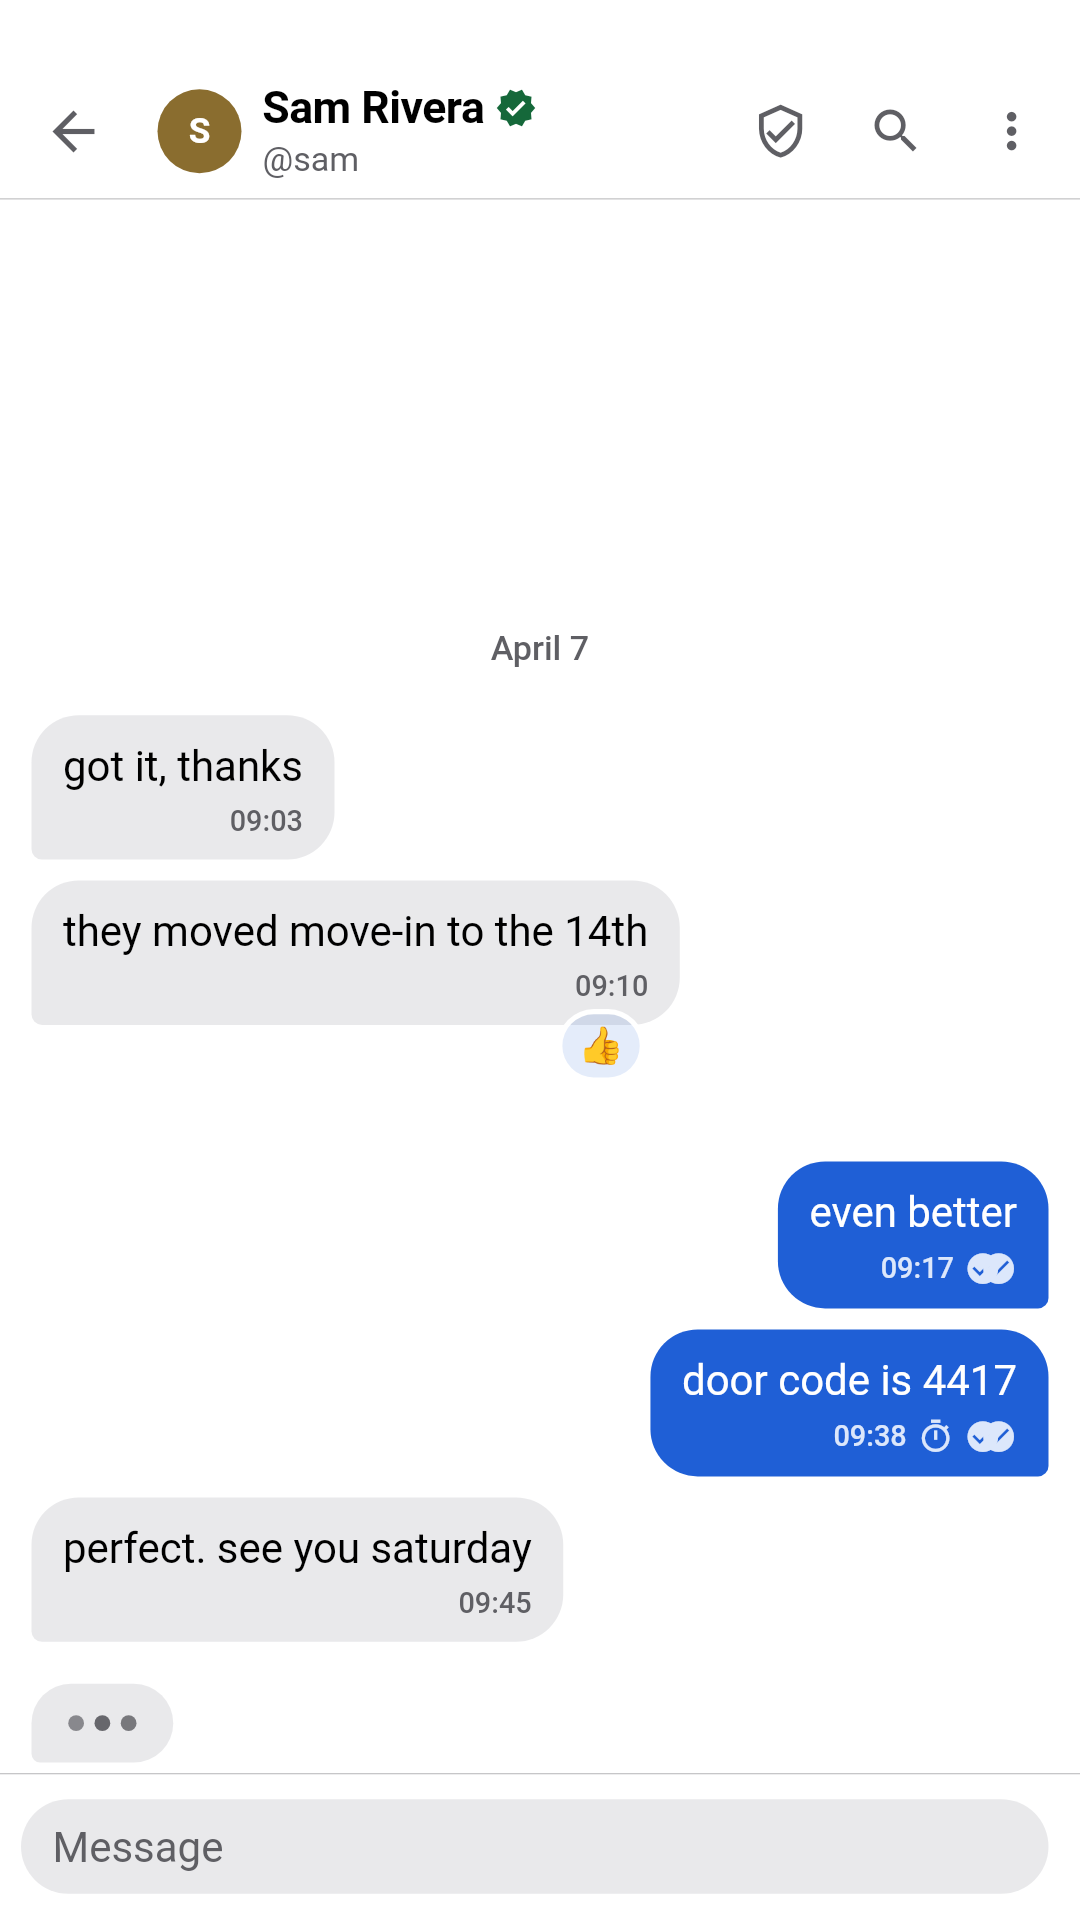
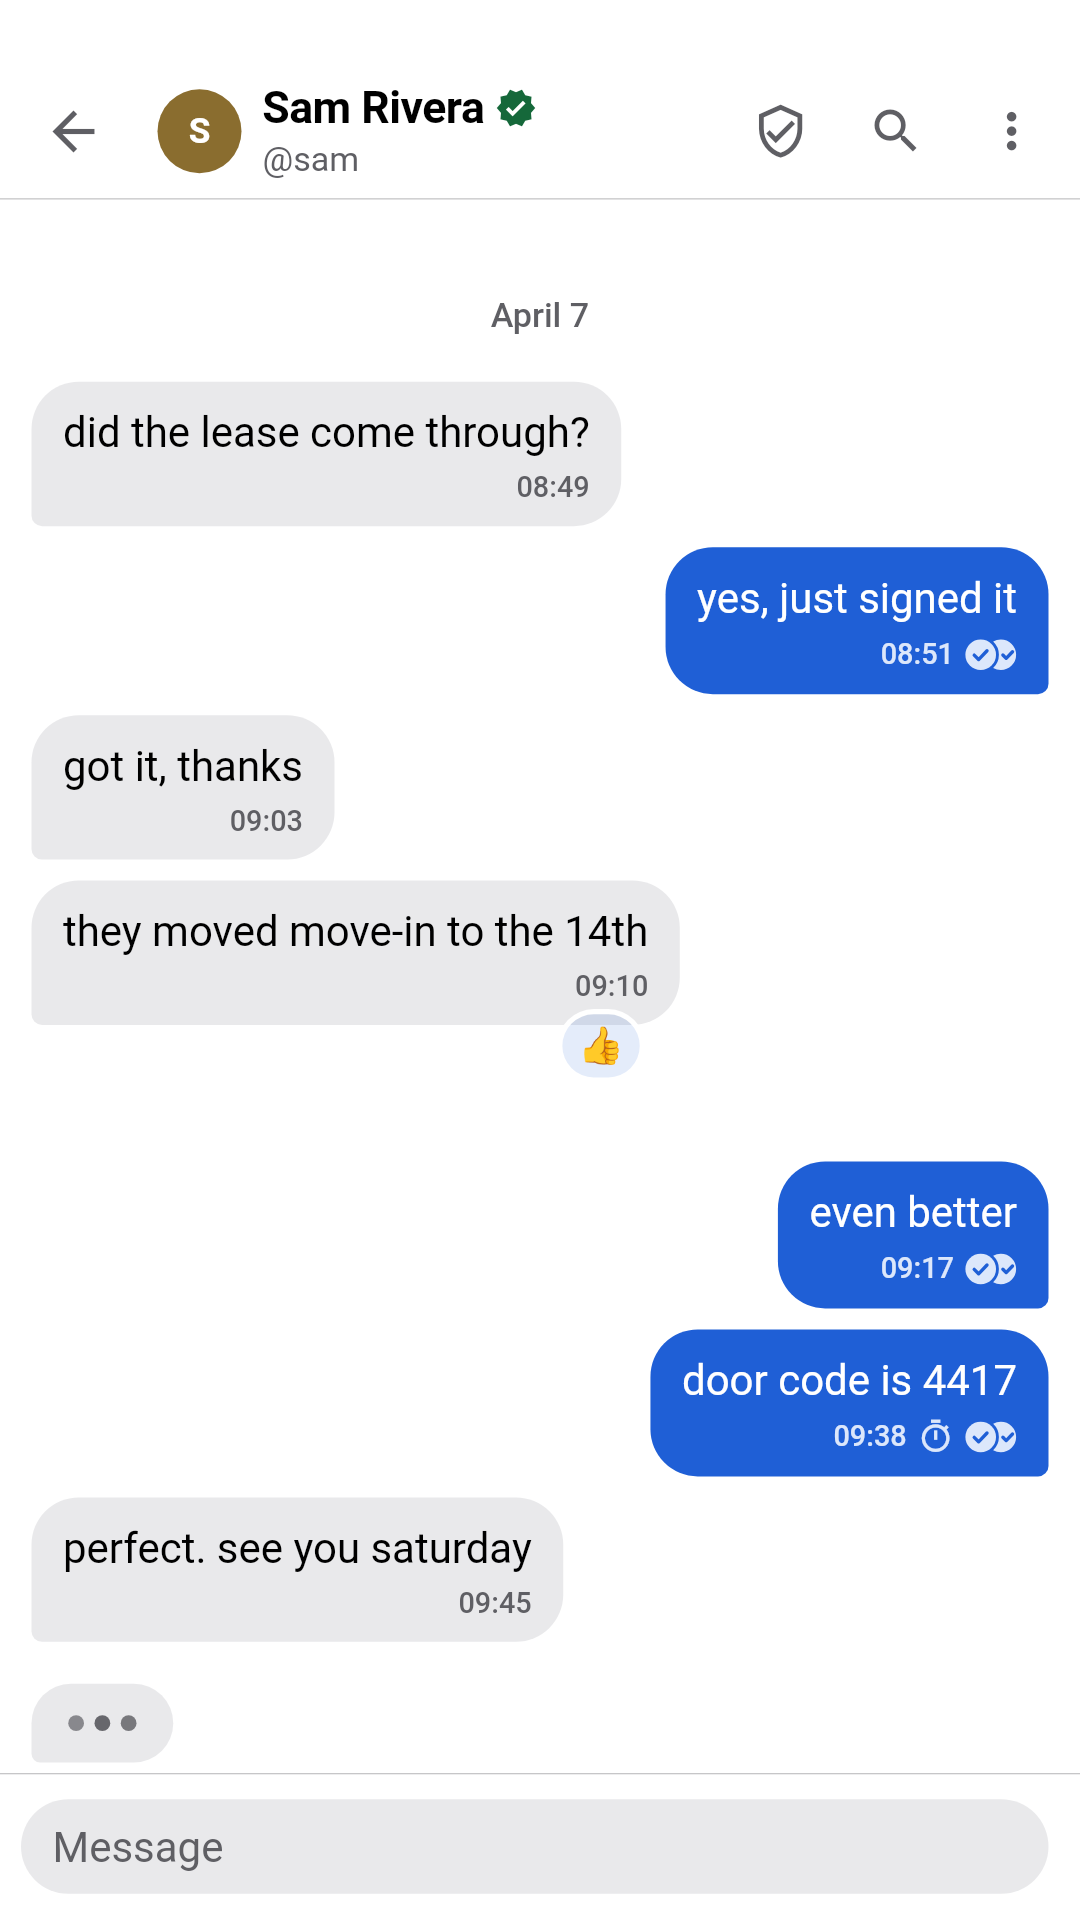
Regular row titles, a Pixel's fingerprint, the whole morning in shot 03
- VeilRow titles are regular (400) unless a VeilAvatar leads the row (a
  person's name stays bold), as Signal, WhatsApp and Telegram set
  setting and option rows; field labels and the PIN labels too.
- The layout world's biometrics are a Pixel's fingerprint sensor, so
  the gate and Play shot 05 show "Use fingerprint" (sheet M7);
  app_lock_phone_test changes on purpose.
- Play shot 03 keeps the whole morning but the PDF: it opens on "did
  the lease come through?" / "yes, just signed it", so "got it,
  thanks" answers something and the screen is full.
- store/play/screenshots 03, 05 and 06 regenerated.

Claude-Session: https://claude.ai/code/session_01HCECjTZK8LnawsnLYMCNqU

diff --git a/apps/mobile/tool/play_store_art_test.dart b/apps/mobile/tool/play_store_art_test.dart
@@ -419,18 +419,27 @@ Future<void> _expectChatsLeftOut(WidgetTester tester) async {
 }
 
 // The seed's chat holds more than one screen does. The listing keeps the
-// morning from Sam's message after the file on: his two short messages, the
-// user's two answers (the second disappearing) and Sam's last word. It
-// leaves out the evening before (the long message and the long link of the
-// gate's history case), his first message of the morning and the user's
-// answer to it, and the PDF the user sent, which the app cannot send. What
-// is left fits on the screen whole, which _expectNothingCut holds it to.
+// morning: Sam asking about the lease and the user's answer, his two short
+// messages, the user's two answers (the second disappearing) and Sam's last
+// word. It leaves out the evening before (the long message and the long
+// link of the gate's history case) and the PDF the user sent, which the app
+// cannot send. What is left fits on the screen whole, which
+// _expectNothingCut holds it to.
 void _leaveOutChatLines(FakeRelay relay) {
   final history = relay.conversations[chatConversationId]!.messages;
-  final file = history.indexWhere((message) => message['attachment'] != null);
-  expect(file, isNot(-1), reason: 'the seed chat no longer holds the attachment the listing starts after');
-  final kept = history.sublist(file + 1);
-  expect(kept.first['senderDeviceId'], 'dev-$peerHandle', reason: "the message after the attachment is no longer Sam's");
+  DateTime dayOf(Map<String, dynamic> message) {
+    final at = DateTime.parse(message['serverReceivedAt'] as String);
+    return DateTime.utc(at.year, at.month, at.day);
+  }
+
+  final morning = dayOf(history.last);
+  final kept = [
+    for (final message in history)
+      if (dayOf(message) == morning && message['attachment'] == null) message,
+  ];
+  expect(kept, hasLength(history.length - 4),
+      reason: 'the seed chat no longer holds three lines the evening before and one file');
+  expect(kept.first['senderDeviceId'], 'dev-$peerHandle', reason: "the morning no longer opens with Sam's question");
   expect(kept.where((message) => message['expiresAt'] != null), hasLength(1),
       reason: 'the kept lines no longer hold the disappearing message');
   expect(kept.where((message) => message['messageType'] == MessageKind.system.name), isEmpty,

diff --git a/apps/mobile/test/phone/app_lock_phone_test.dart b/apps/mobile/test/phone/app_lock_phone_test.dart
@@ -55,7 +55,9 @@ void main() {
 
         expect(wholeOnScreen(tester, find.byType(TextField)), isTrue);
         expect(wholeOnScreen(tester, find.widgetWithText(FilledButton, l10n.appLockUnlock)), isTrue);
-        expect(wholeOnScreen(tester, find.widgetWithText(TextButton, l10n.appLockUseBiometrics)), isTrue);
+        // The layout world's phone has a fingerprint sensor, so the button
+        // names it.
+        expect(wholeOnScreen(tester, find.widgetWithText(TextButton, l10n.appLockUseFingerprint)), isTrue);
         // The field is a line under the digits, not a grey box like the
         // disabled button under it.
         final pin = tester.widget<TextField>(find.byType(TextField)).decoration!;
@@ -81,7 +83,7 @@ void main() {
       account: LayoutAccount.locked,
       body: (world) async {
         // The layout world's biometrics always refuse.
-        await tester.tap(find.widgetWithText(TextButton, l10n.appLockUseBiometrics));
+        await tester.tap(find.widgetWithText(TextButton, l10n.appLockUseFingerprint));
         await pumpFrames(tester, frames: 3);
 
         final field = tester.widget<TextField>(find.byType(TextField));

diff --git a/apps/mobile/lib/src/shared/presentation/veil_group.dart b/apps/mobile/lib/src/shared/presentation/veil_group.dart
@@ -216,6 +216,10 @@ class VeilRow extends StatelessWidget {
       title: Text(
         title!,
         style: theme.textTheme.titleMedium?.copyWith(
+          // A person's name (a row led by an avatar) is bold; a setting,
+          // an option or an action is regular, as Signal, WhatsApp and
+          // Telegram set them.
+          fontWeight: leading is VeilAvatar ? null : FontWeight.w400,
           color: destructive ? palette.danger : (disabledSwitch ? palette.textSubtle : null),
         ),
       ),
@@ -275,7 +279,7 @@ class VeilRow extends StatelessWidget {
         child: Row(
           children: [
             if (title != null) ...[
-              Text(title!, style: theme.textTheme.titleMedium),
+              Text(title!, style: theme.textTheme.titleMedium?.copyWith(fontWeight: FontWeight.w400)),
               const SizedBox(width: VeilSpace.sm),
             ],
             Expanded(child: Theme(data: theme.copyWith(inputDecorationTheme: borderless), child: field)),

diff --git a/apps/mobile/test/layout/support/layout_world.dart b/apps/mobile/test/layout/support/layout_world.dart
@@ -411,7 +411,9 @@ class _PinSetStorage extends SecureStorageService {
   Future<bool> hasPin() async => true;
 }
 
-class _Biometrics implements LocalUnlockAuthenticator {
+/// A Pixel's: a fingerprint sensor, so the lock screen's button says "Use
+/// fingerprint". It always refuses.
+class _Biometrics implements LocalUnlockAuthenticator, BiometricKindSource {
   const _Biometrics();
 
   @override
@@ -419,6 +421,9 @@ class _Biometrics implements LocalUnlockAuthenticator {
 
   @override
   Future<bool> canUseBiometrics() async => true;
+
+  @override
+  Future<BiometricKind> biometricKind() async => BiometricKind.fingerprint;
 }
 
 /// The session a case starts in. While [bootstrapping], startup never

diff --git a/apps/mobile/lib/src/features/app_lock/presentation/app_lock_screen.dart b/apps/mobile/lib/src/features/app_lock/presentation/app_lock_screen.dart
@@ -250,7 +250,10 @@ class _AppLockScreenState extends ConsumerState<AppLockScreen> {
             crossAxisAlignment: CrossAxisAlignment.baseline,
             textBaseline: TextBaseline.alphabetic,
             children: [
-              SizedBox(width: labelWidth, child: Text(label, style: Theme.of(context).textTheme.titleMedium)),
+              SizedBox(
+                width: labelWidth,
+                child: Text(label, style: Theme.of(context).textTheme.titleMedium?.copyWith(fontWeight: FontWeight.w400)),
+              ),
               Expanded(child: field),
             ],
           ),
